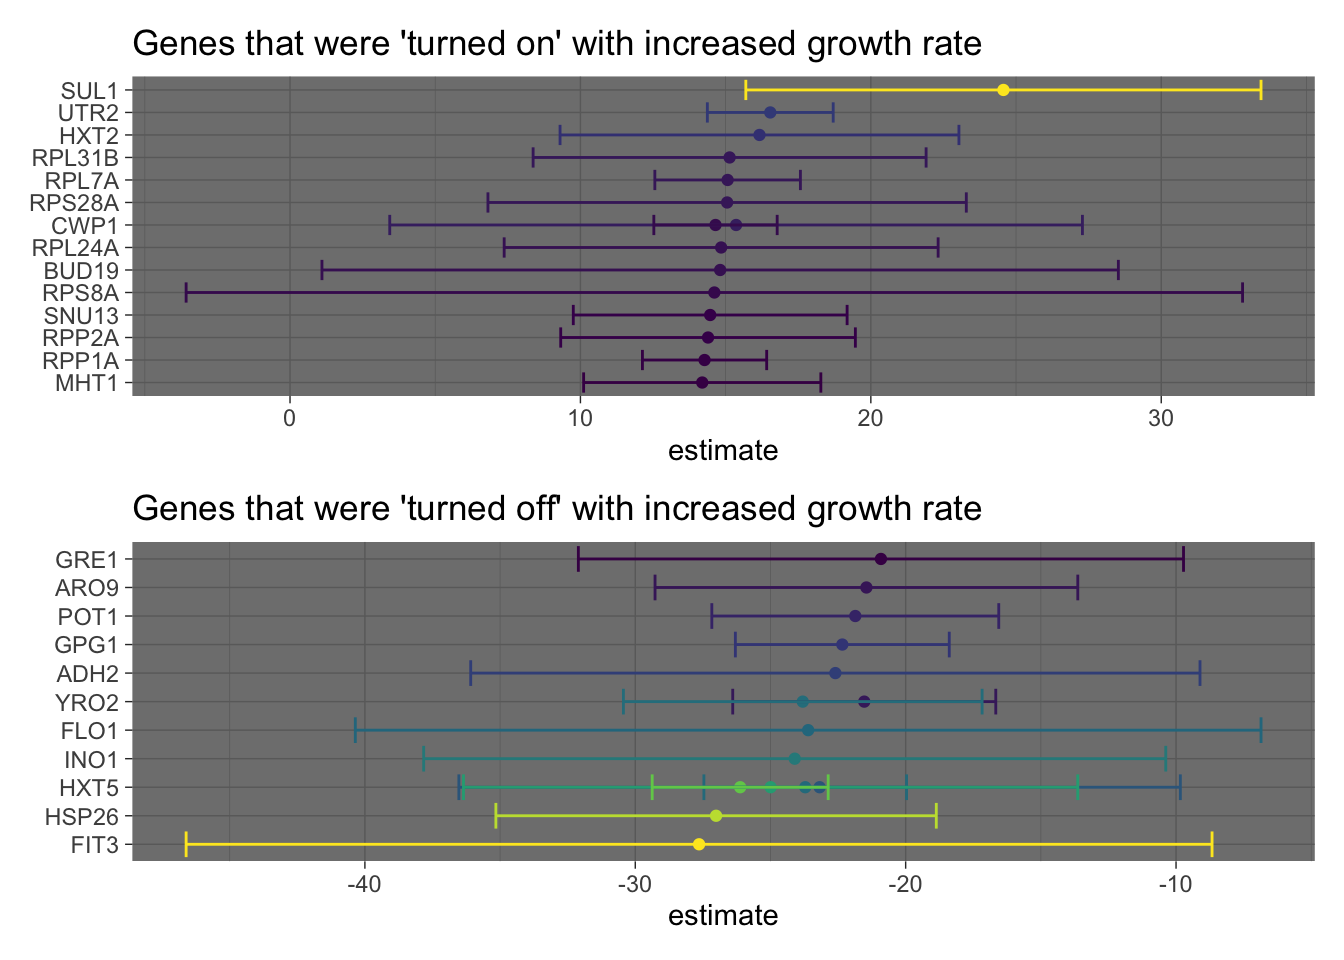
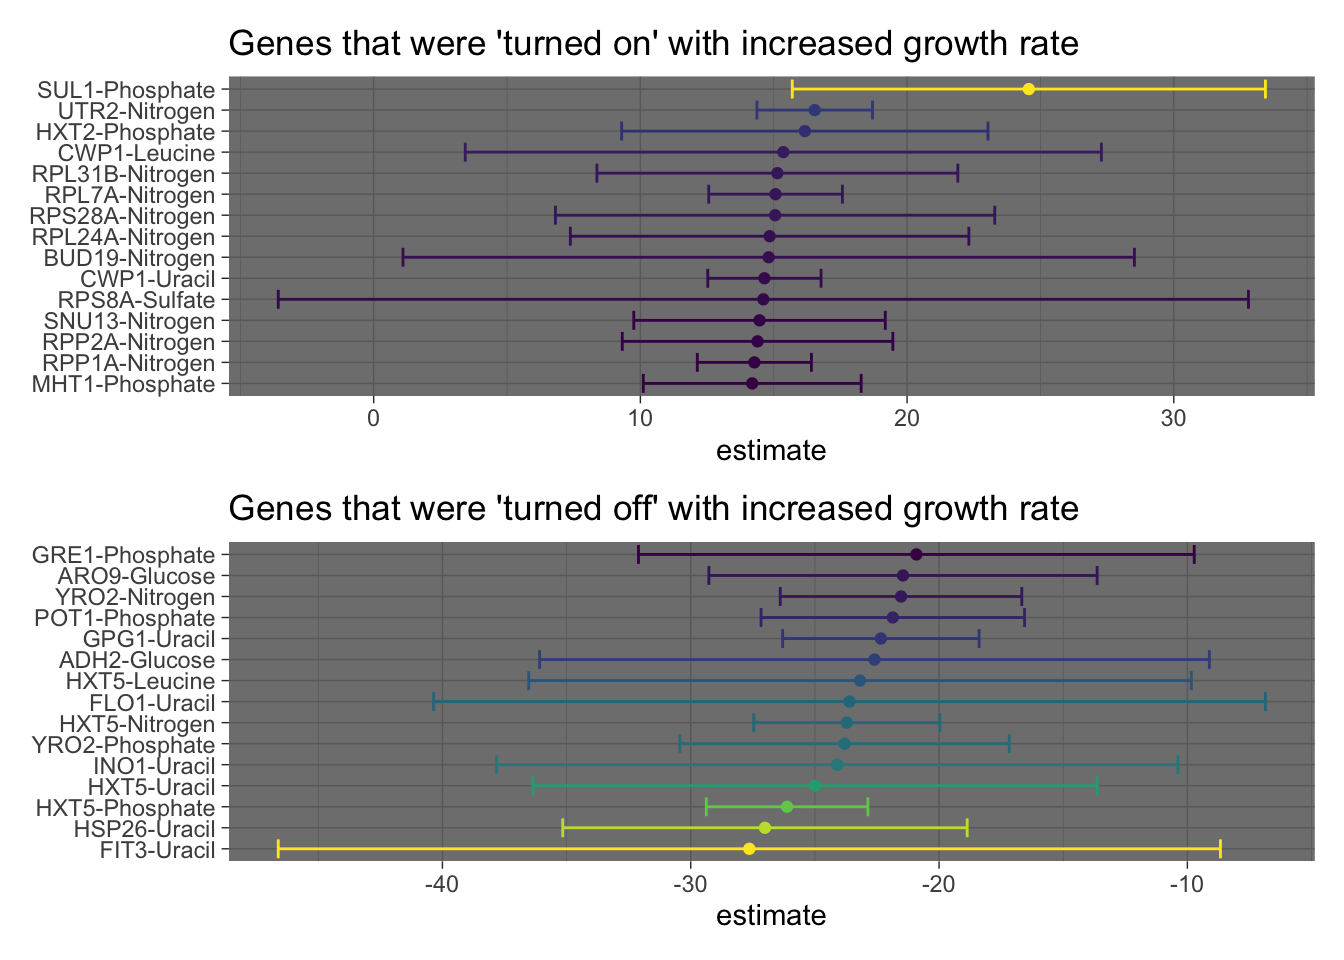
yeast express edits

diff --git a/content/post/2021-11-11_yeast_express_analysis/index.html b/content/post/2021-11-11_yeast_express_analysis/index.html
@@ -261,11 +261,11 @@ yeast_df_tidy %&gt;%
 </div>
 <div id="quantifying-expression-levels-with-linear-regression" class="section level2">
 <h2>Quantifying expression levels with linear regression</h2>
-<p>In the last series of plots, we saw that FBP26 expression levels decrease linearly with increased growth rate. The FBP26 enzyme is involved in glucose metabolism.</p>
-<p>For a more general primer on this type of analysis, please see the vignette, <a href="https://cran.r-project.org/web/packages/broom/vignettes/broom_and_dplyr.html">broom and dplyr</a></p>
+<p>We are going to use base R’s <code>lm()</code> function to estimate the expression for each gene-nutrient combination. This can be done by grouping and nesting the data, then using the <code>purrr</code> package to iterate over the samples and return a linear model for each. Finally, we can use the <code>broom</code> package to return a tibble and <code>ggplot2</code> to look at the results.</p>
 <pre class="r"><code>library(tidymodels)
 library(broom)
 library(patchwork)
+library(glue)
 
 #David&#39;s example of running a linear model for each gene
 # linear_models &lt;- yeast_df_tidy %&gt;%
@@ -293,9 +293,10 @@ high_express &lt;- model_tib %&gt;%
   filter(term != &quot;(Intercept)&quot;) %&gt;%
   arrange(desc(estimate)) %&gt;%
   drop_na() %&gt;% 
-  filter(gene_name != &quot;&quot;) %&gt;% 
+  filter(gene_name != &quot;&quot;) %&gt;%
   head(n=15) %&gt;% 
-  ggplot(aes(estimate, fct_reorder(gene_name, estimate), color = estimate)) +
+  mutate(gene_name_nut = glue(&quot;{gene_name}-{nutrient}&quot;)) %&gt;% 
+  ggplot(aes(estimate, fct_reorder(gene_name_nut, estimate), color = estimate)) +
   geom_point() +
   geom_errorbarh(aes(xmin = conf.low, xmax = conf.high)) +
   labs(title = &quot;Genes that were &#39;turned on&#39; with increased growth rate&quot;,
@@ -310,8 +311,9 @@ low_express &lt;- model_tib %&gt;%
   drop_na() %&gt;% 
   arrange(desc(estimate)) %&gt;%
   filter(gene_name != &quot;&quot;) %&gt;%
-  tail(n=15) %&gt;%
-  ggplot(aes(estimate, fct_reorder(gene_name, estimate), color = estimate)) +
+  tail(n=15) %&gt;% 
+  mutate(gene_name_nut = glue(&quot;{gene_name}-{nutrient}&quot;)) %&gt;% 
+  ggplot(aes(estimate, fct_reorder(gene_name_nut, estimate), color = estimate)) +
   geom_point() +
   geom_errorbarh(aes(xmin = conf.low, xmax = conf.high)) +
   labs(title = &quot;Genes that were &#39;turned off&#39; with increased growth rate&quot;,
@@ -322,12 +324,13 @@ low_express &lt;- model_tib %&gt;%
 
 high_express / low_express</code></pre>
 <p><img src="{{< blogdown/postref >}}index_files/figure-html/unnamed-chunk-13-1.png" width="672" />
-In the previous plot, we used the results from the linear model to visualize the genes with the most positive or negative slopes respectively. Let’s create one more visualization to look at the genes with the most positive change in expression in response to growth rate (under one of the nutrient conditions).</p>
-<pre class="r"><code>over_epressed &lt;- c(&quot;SUL1&quot;,   &quot;UTR2&quot;,   &quot;HXT2&quot;,   &quot;CWP1&quot;,   &quot;RPL31B&quot;, &quot;RPL7A&quot;,  &quot;RPS28A&quot;, &quot;RPL24A&quot;, &quot;BUD19&quot;, &quot;CWP1&quot;,   &quot;RPS8A&quot;,  &quot;SNU13&quot;, &quot;RPP2A&quot;)
+In the previous plot, we used the results from the linear model to visualize the genes with the most positive or negative slopes (estimates) respectively. We also included errorbars to show the 95% confidence intervals.</p>
+<p>Let’s create one more visualization to look at the genes with the most positive change in expression in response to growth rate (under one of the nutrient conditions).</p>
+<pre class="r"><code>over_expressed &lt;- c(&quot;SUL1&quot;,   &quot;UTR2&quot;,   &quot;HXT2&quot;,   &quot;CWP1&quot;,   &quot;RPL31B&quot;, &quot;RPL7A&quot;,  &quot;RPS28A&quot;, &quot;RPL24A&quot;, &quot;BUD19&quot;, &quot;CWP1&quot;,   &quot;RPS8A&quot;,  &quot;SNU13&quot;, &quot;RPP2A&quot;)
 
 yeast_df_tidy %&gt;% 
   select(gid, gene_name, activity, molec_process, nutrient, growth_rate, expression_levels) %&gt;%
-  filter(gene_name %in% over_epressed,
+  filter(gene_name %in% over_expressed,
          gene_name != &quot;&quot;) %&gt;%
   add_count(gene_name) %&gt;%
   group_by(gene_name, gid) %&gt;%
